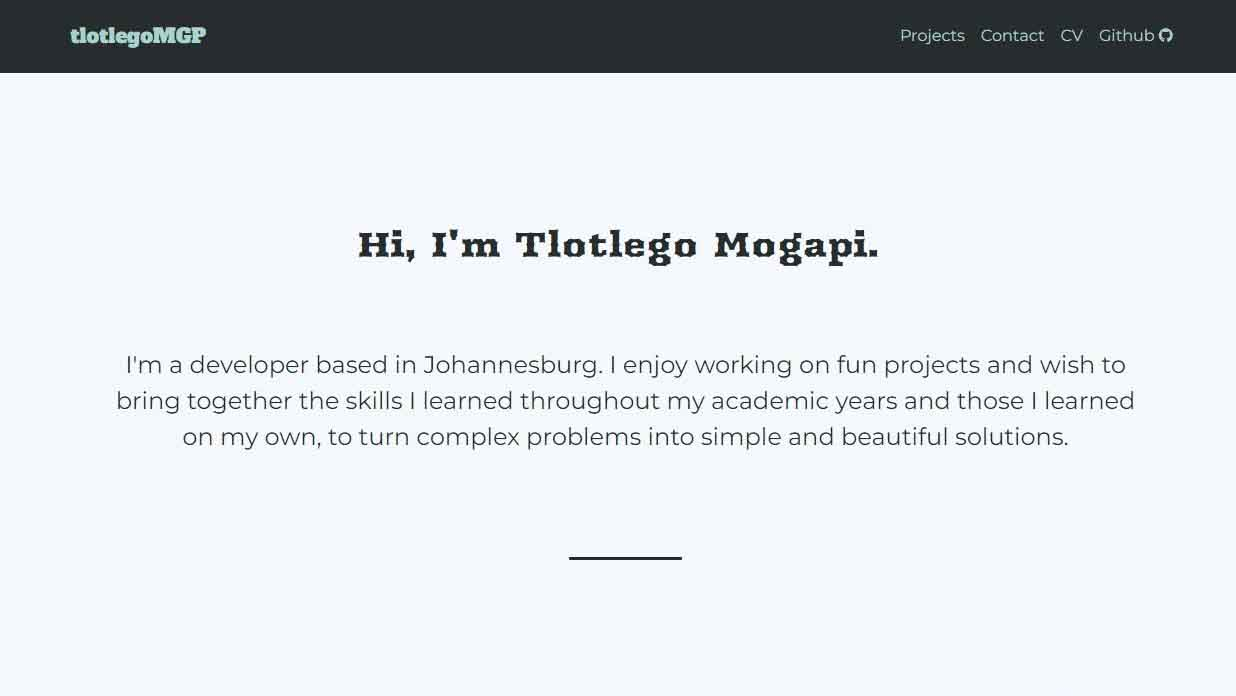
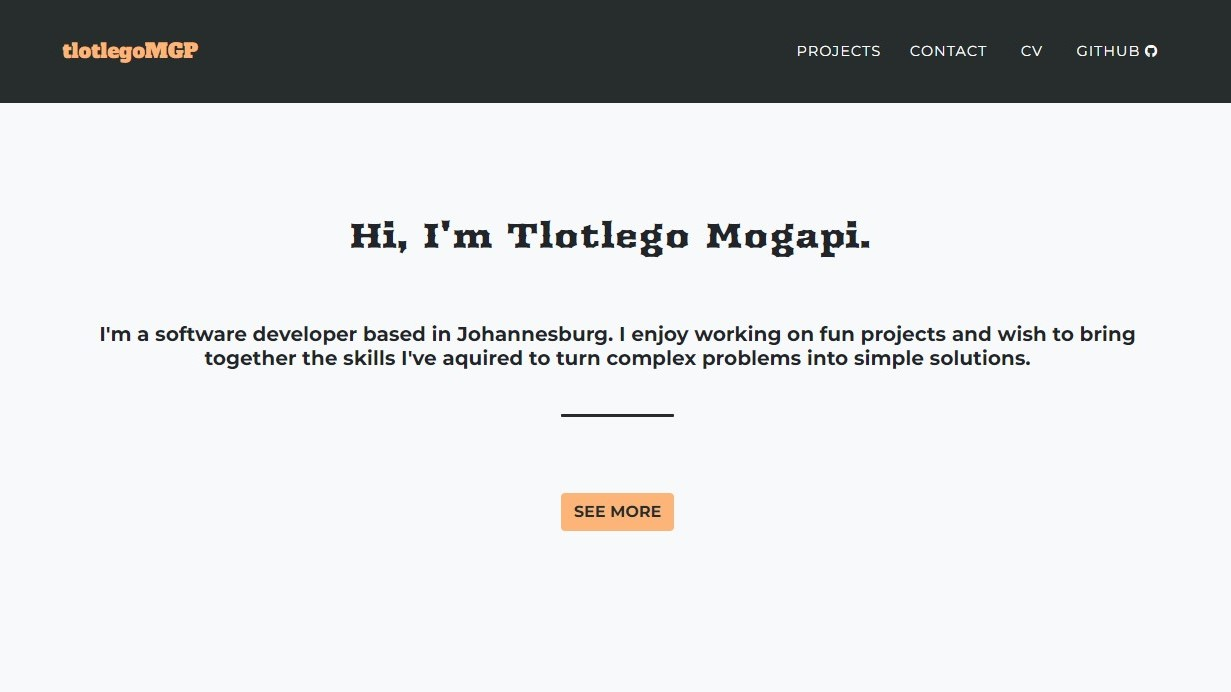
Deleted unused css

diff --git a/index/templates/index/index.html b/index/templates/index/index.html
@@ -18,7 +18,7 @@
             </div>
             <hr class="text-center" style="padding: 1.2px; background-color: #272d2d; width: 110px; border-radius:500cm;">
             <div class="col-lg-12 text-center justify-content-center align-items-center" style="margin-top: 60px">
-                <a class="btn js-scroll-trigger text-uppercase" href="#portfolio" role="button" style="background: #fdb479; color: #272d2d">See More</a>
+                <a class="btn btn-lg js-scroll-trigger text-uppercase" href="#portfolio" role="button" style="background: #fdb479; color: #272d2d">See More</a>
             </div>
         </div>
     </div>
@@ -119,9 +119,6 @@
         <form method="POST" action="{% url 'index' %}"> {% csrf_token %}
             <h2 class="text-center" style="color: #fdb479;">Contact me</h2>
             <div class="form-group">
-                {{ form.subject }}
-            </div>
-            <div class="form-group">
                 {% for message in messages %}
                 <div class="alert alert-danger">
                     <a class="close" href="#" data-dismiss="alert">×</a>
@@ -129,6 +126,9 @@
                 </div>
                 {% endfor %}
                 {{ form.email }}
+            </div>
+            <div class="form-group">
+                {{ form.subject }}
             </div>
             <div class="form-group">
                 {{ form.message }}

diff --git a/index/static/index/css/styles.min.css b/index/static/index/css/styles.min.css
@@ -73,39 +73,4 @@
 	margin-top: 15px;
 	color: #fff;
 }
-.page-footer {
-	padding-top: 35px;
-	border-top: 1px solid #272d2d;
-	text-align: center;
-	padding-bottom: 20px;
-}
-.page-footer a {
-	margin: 0 10px;
-	color: #282b2d;
-	font-size: 18px;
-}
-.page-footer .links,
-.page-footer a {
-	display: inline-block;
-}
-.page-footer .social-icons {
-	margin-top: 20px;
-	margin-bottom: 16px;
-}
-.page-footer .social-icons a {
-	font-size: 18px;
-	margin: 0 3px;
-	color: #fff;
-	border: 1px solid;
-	opacity: 0.75;
-	border-radius: 50%;
-	width: 36px;
-	display: inline-block;
-	height: 36px;
-	text-align: center;
-	background-color: #c5c9d2;
-	line-height: 34px;
-}
-.page-footer .social-icons a:hover {
-	opacity: 1;
-}
+
